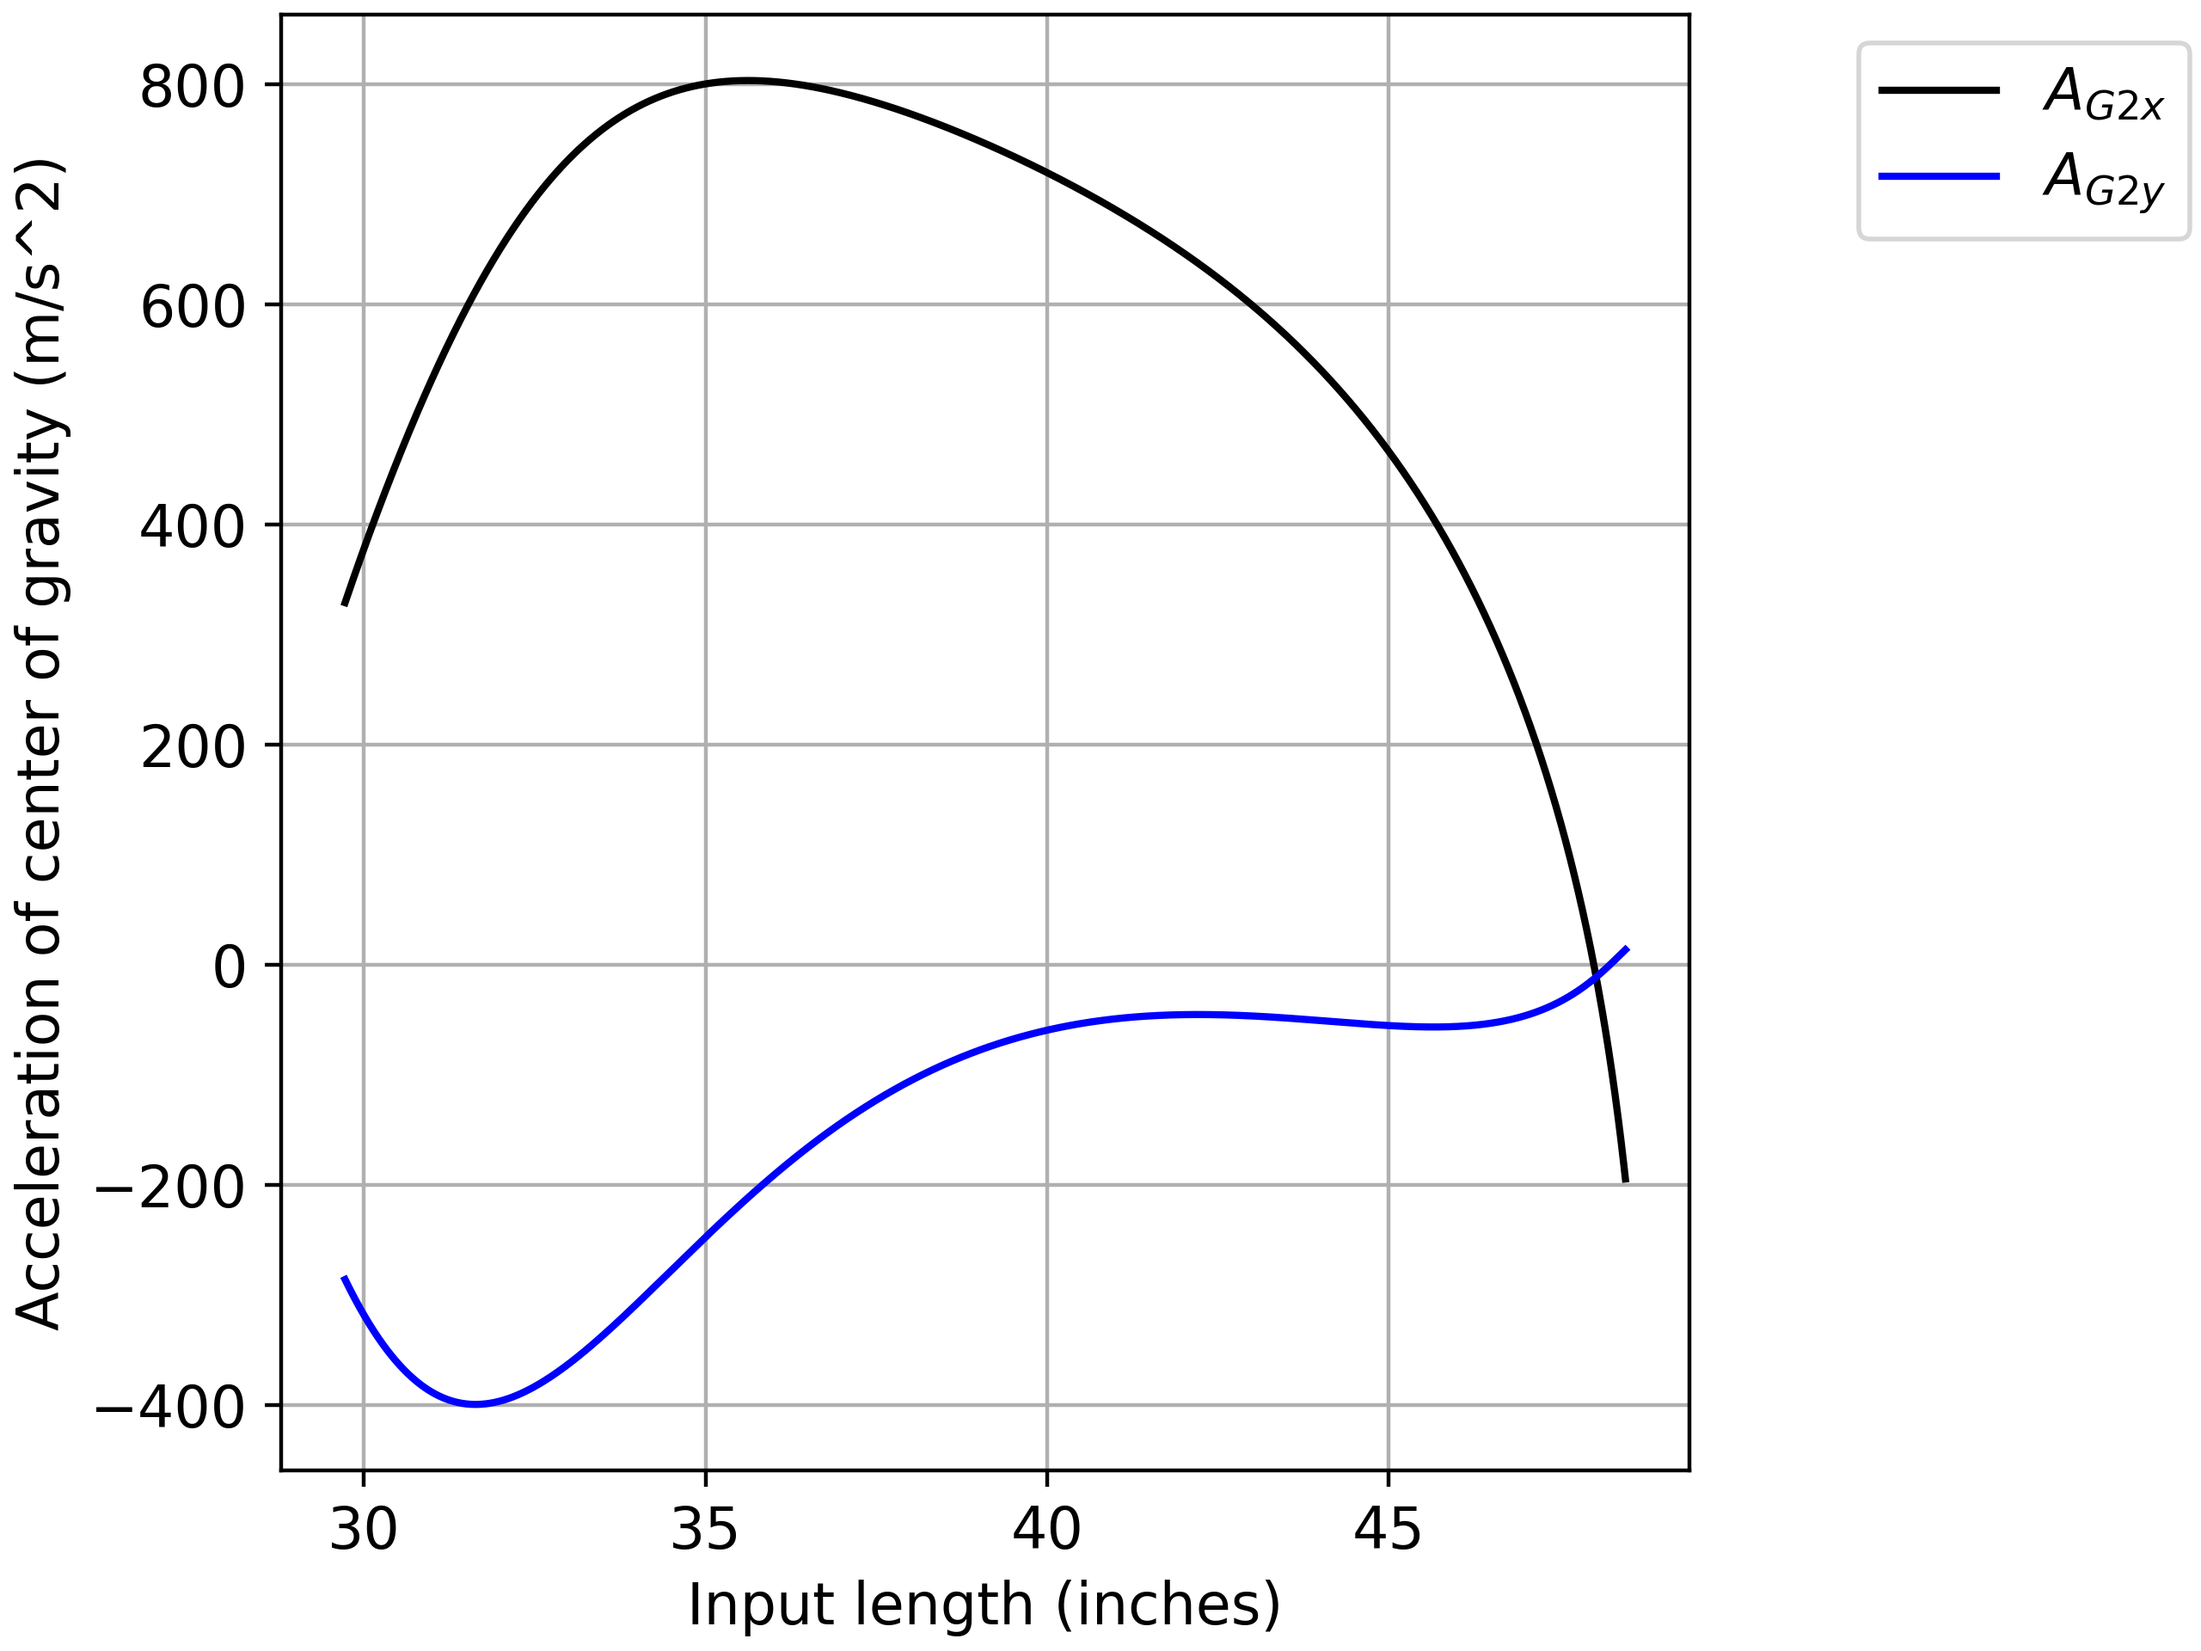
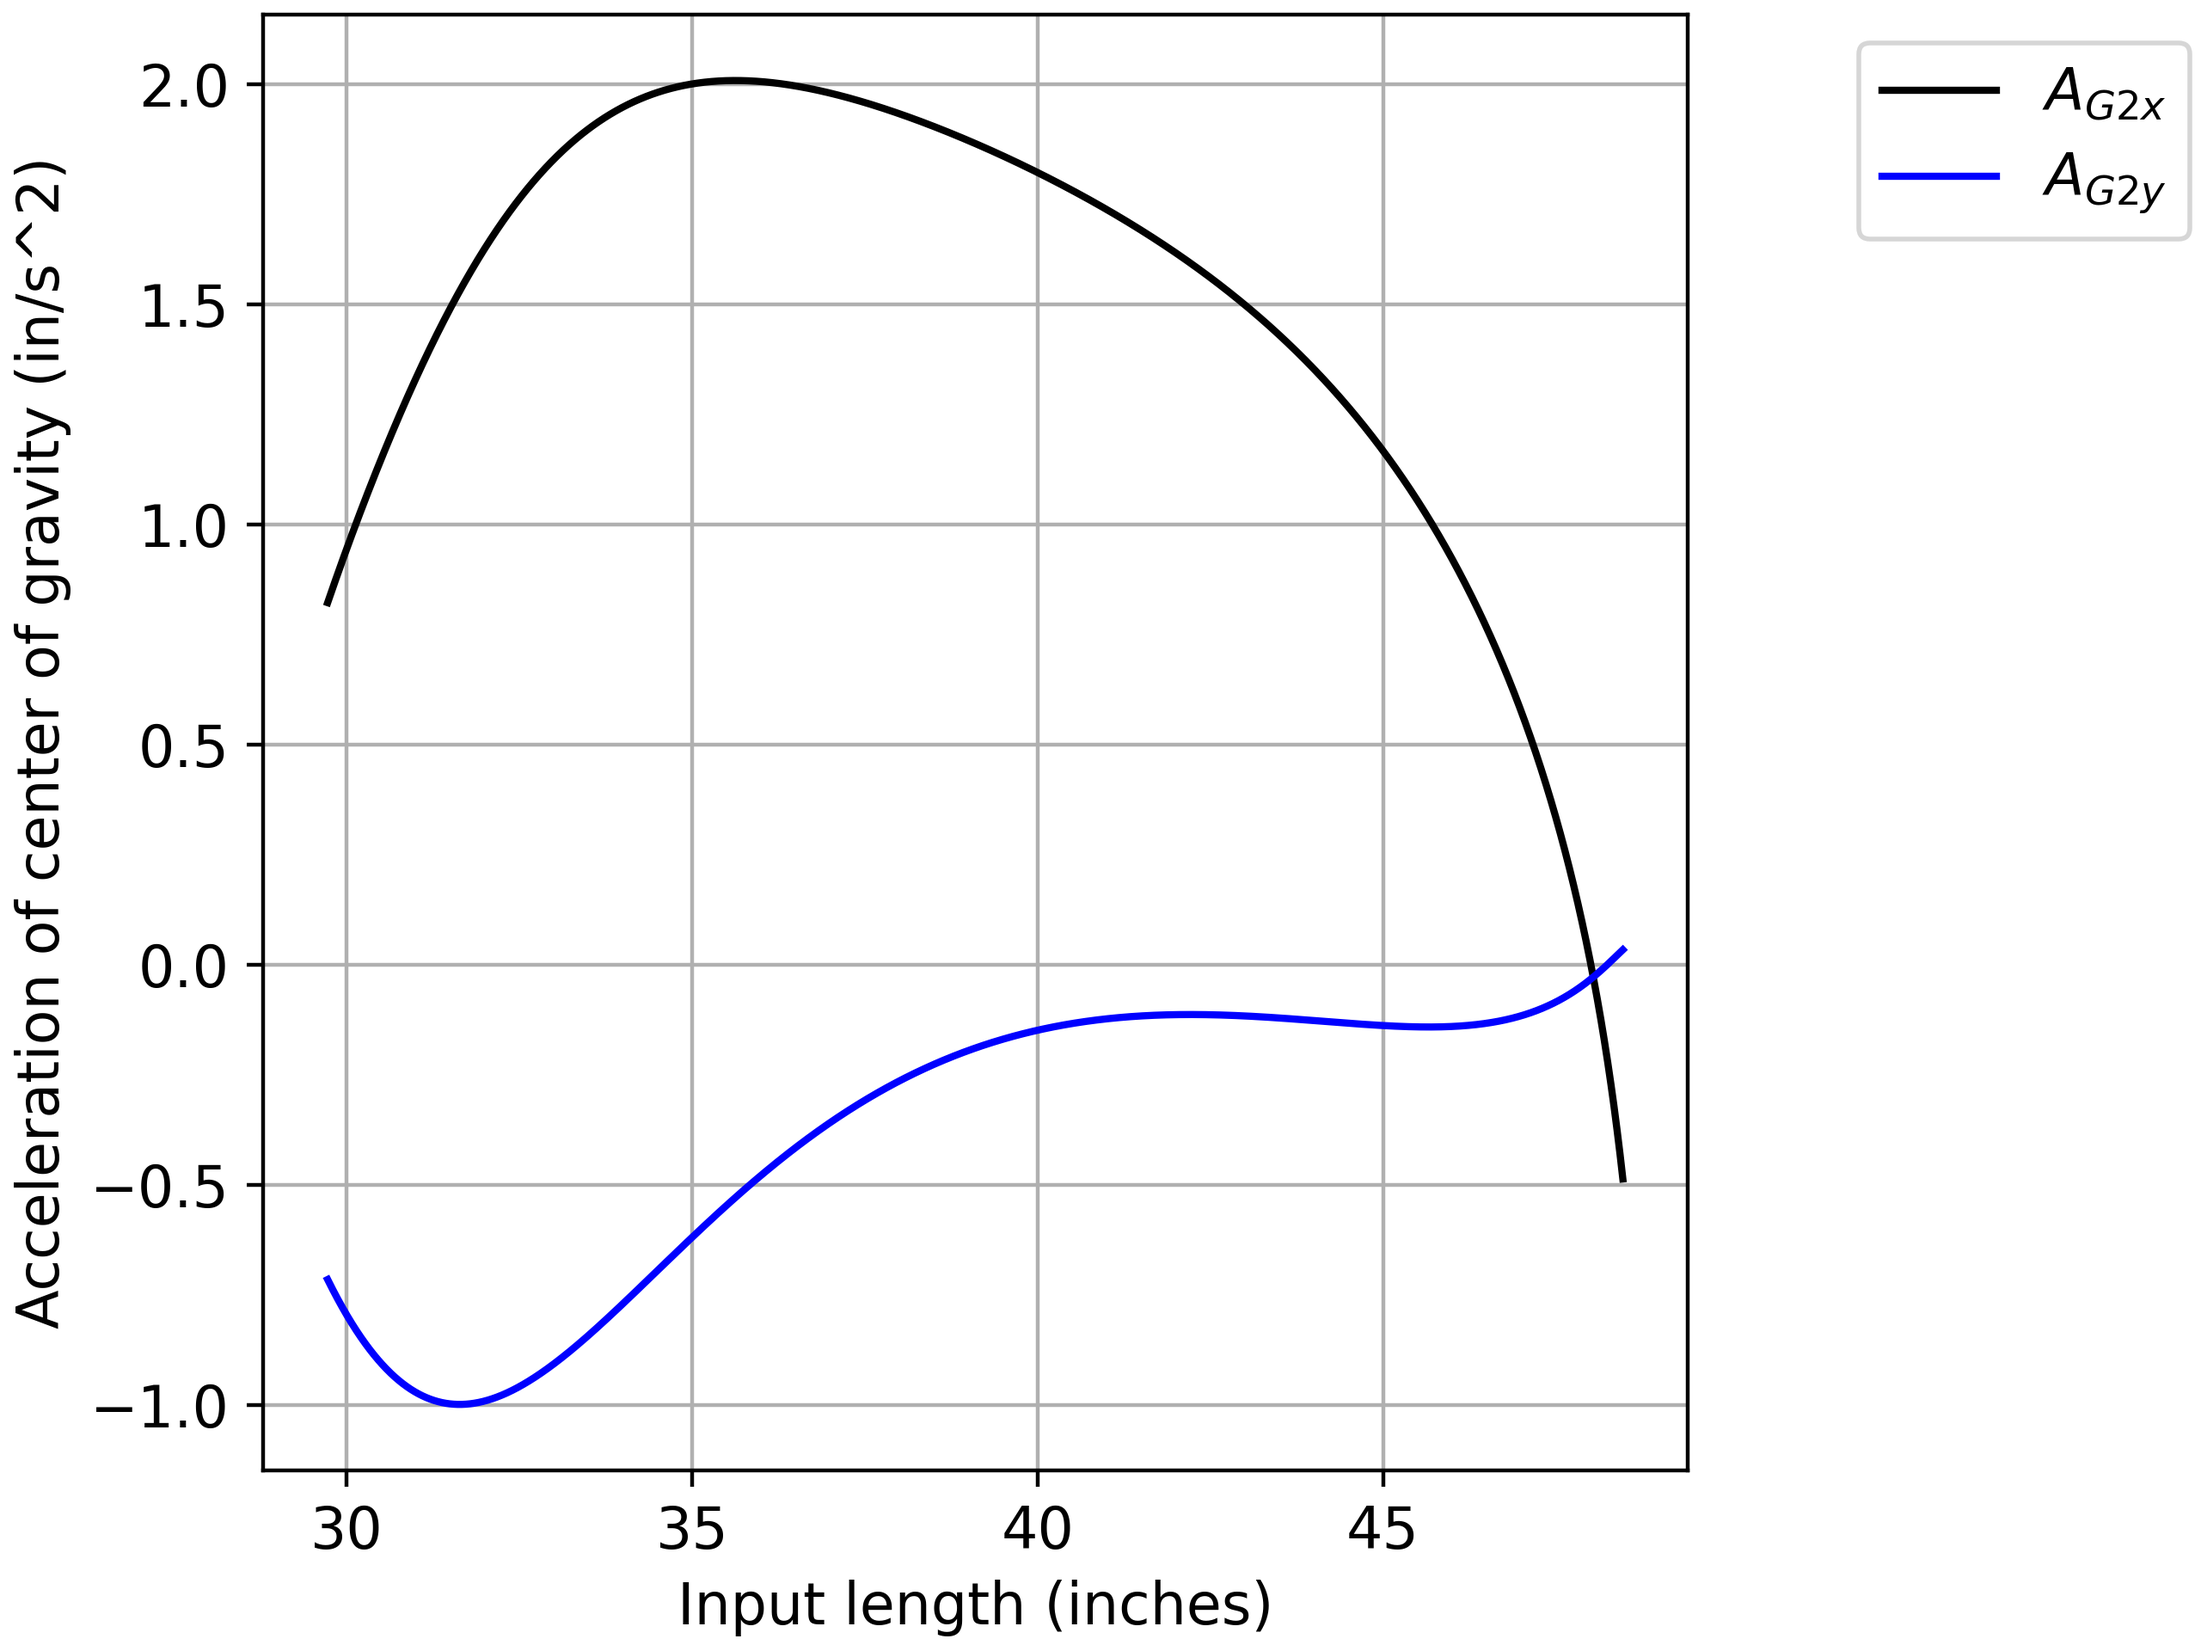
Forces

diff --git a/code/main.py b/code/main.py
@@ -13,7 +13,7 @@ rba = 142.27*act_img_ratio
 rdb = 115.2*act_img_ratio
 rca = 49.46*act_img_ratio
 thetaca = math.radians(293.04)
-rgc = 148.5*act_img_ratio # Can't really tell from picture, but should not affect results as long as counted for accordingly
+rgc = 148.5*act_img_ratio # Can't really tell from picture, but should not affect results as long as accounted for accordingly
 r4 = 148.5*act_img_ratio # Can't tell for this one either
 rde = 85.65*act_img_ratio
 ref = 197.12*act_img_ratio
@@ -21,46 +21,47 @@ rfc = 267.12*act_img_ratio
 thetafc = math.radians(5.44) # angle from positive x-axis to ground link, which is Rea
 betad = math.radians(92.47) # Angle from DB to DA
 rpb = 439.41*act_img_ratio # distance from point b to the bucket coupler point
-betab = math.radians(7.41) # Angle from rpb to rdb
+betab = math.radians(-7.41) # Angle from rpb to rdb
 
 
 
 
 # Centers of mass
 # Lengths measured from second measured point in name
-# Angles measured CCW length vector
+# Angles measured CCW from length vector
 lba = rba/2
 betaba = 0
-mba = 7
+m2 = 100
+ig2 = m2*(3.530*10**(-5))/0.0068241
 
 lgc = rgc/2 # Estimate
 betagc = 0
-mgc = 7
+m6 = 100
+ig6 = m6*(2.476*10**(-4))/0.0048194
 
 l4 = r4/2 # Estimate
 beta4 = 0
-m4 = 7
+m4 = 100
+ig4 = m4*(1.654*10**(-4))/0.0040303
 
 lef = ref/2
 betaef = 0
-mef = 7
+m5 = 100
+ig5 = m5*(0.001476)/0.0079326
 
 ldb = 0.036/0.022*rdb
 betadb = math.radians(-0.2162)
-mdb = 19
+m3 = 200
+ig3 = m3*(0.297341)/0.3535955
 
 
 
 # Inputs
 rdc = 173*act_img_ratio
-rdotdg = 100 # rate of change of length of hydraulic piston
-rddotdg = 0 # rate of change of rate of change of length of hydraulic piston
-
+rdotdg = 5 # rate of change of length of hydraulic piston (in/s)
+rddotdg = 0 # rate of change of rate of change of length of hydraulic piston (in/s^2)
+fp = 1000 # Weight on end of arm (lb)
 rdg = rdc - rgc # Given input length
-
-# Finds most common element in a list
-def most_common(lst: list):
-    return max(set(lst), key=lst.count)
 
 
 """
@@ -121,6 +122,42 @@ def angular_acceleration_eqs(thetaba, thetadb, thetagc, rdotdg, thetadg, thetade
         rgc*(omegagc**2)*np.sin(thetagc) - rddotdg*np.sin(thetadg) - 2*rdotdg*omegadg*np.cos(thetadg) + rdg*(omegadg**2)*np.sin(thetadg) - rde*(omegade**2)*np.sin(thetade) - ref*(omegaef**2)*np.sin(thetaef),
         0,
         0
+    ]
+
+def force_equations(thetaba, thetadb, thetagc, thetadg, thetade, thetaef, ag2x, ag2y, ag3x, ag3y, ag4x, ag4y, ag5x, ag5y, ag6x, ag6y, alpha2, alpha3, alpha4, alpha5, alpha6, rdc):
+    rdg = rdc - rgc
+    return [
+        [1, 0, 0, 0, 0, 0, -1, 0, 0, 0, 0, 0, 0, 0, 0],
+        [0, 1, 0, 0, 0, 0, 0, -1, 0, 0, 0, 0, 0, 0, 0],
+        [0, 0, 0, 0, 0, 0, 1, 0, -1, 0, -1, 0, 0, 0, 0],
+        [0, 0, 0, 0, 0, 0, 0, 1, 0, -1, 0, -1, 0, 0, 0],
+        [0, 0, 0, 0, 0, 0, 0, 0, 1, 0, 0, 0, -math.cos(thetadg + math.pi/2), 0, math.cos(thetadg)],
+        [0, 0, 0, 0, 0, 0, 0, 0, 0, 1, 0, 0, -math.sin(thetadg + math.pi/2), 0, math.sin(thetadg)],
+        [0, 0, 1, 0, 0, 0, 0, 0, 0, 0, 1, 0, 0, 0, 0],
+        [0, 0, 0, 1, 0, 0, 0, 0, 0, 0, 0, 1, 0, 0, 0],
+        [0, 0, 0, 0, 1, 0, 0, 0, 0, 0, 0, 0, math.cos(thetadg + math.pi/2), 0, 0],
+        [0, 0, 0, 0, 0, 1, 0, 0, 0, 0, 0, 0, math.sin(thetadg + math.pi/2), 0, 0],
+        [-lba*math.sin(thetaba + math.pi), lba*math.cos(thetaba + math.pi), 0, 0, 0, 0, (rba - lba)*math.sin(thetaba), -(rba - lba)*math.cos(thetaba), 0, 0, 0, 0, 0, 0, 0],
+        [0, 0, 0, 0, 0, 0, -ldb*math.sin(thetadb + betadb + math.pi), ldb*math.cos(thetadb + betadb + math.pi), (ldb*math.sin(thetadb + betadb + math.pi) + rdb*math.sin(thetadb)), -(ldb*math.cos(thetadb + betadb + math.pi) + rdb*math.cos(thetadb)), (ldb*math.sin(thetadb + betadb + math.pi) + rdb*math.sin(thetadb) - rde*math.sin(thetade)), -(ldb*math.cos(thetadb + betadb + math.pi) + rdb*math.cos(thetadb) - rde*math.cos(thetade)), 0, 0, 0],
+        [0, 0, 0, 0, 0, 0, 0, 0, -l4*math.sin(thetadg), l4*math.cos(thetadg), 0, 0, -(l4-rdg), -1, 0],
+        [0, 0, -lef*math.sin(thetaef + math.pi), lef*math.cos(thetaef + math.pi), 0, 0, 0, 0, 0, 0, -(ref - lef)*math.sin(thetaef), (ref-lef)*math.cos(thetaef), 0, 0, 0],
+        [0, 0, 0, 0, -lgc*math.sin(thetagc + math.pi), lgc*math.cos(thetagc + math.pi), 0, 0, 0, 0, 0, 0, (rgc - lgc), 1, 0]
+    ], [
+        m2*ag2x,
+        m2*ag2y,
+        m3*ag3x,
+        m3*ag3y + fp,
+        m4*ag4x,
+        m4*ag4y,
+        m5*ag5x,
+        m5*ag5y,
+        m6*ag6x,
+        m6*ag6y,
+        ig2*alpha2,
+        ig3*alpha3 + fp*(ldb*math.cos(thetadb + betadb + math.pi) + rdb*math.cos(thetadb + betab)),
+        ig4*alpha4,
+        ig5*alpha5,
+        ig6*alpha6
     ]
 
 # Rename pi for shorter call
@@ -218,7 +255,7 @@ def link_point_pos(angles):
 
     point_d = (point_e[0] + rde*math.cos(angles[4]), point_e[1] + rde*math.sin(angles[4]))
 
-    bucket = (point_b[0] + rpb*math.cos(angles[1]-betab), point_b[1] + rpb*math.sin(angles[1]-betab))
+    bucket = (point_b[0] + rpb*math.cos(angles[1]+betab), point_b[1] + rpb*math.sin(angles[1]+betab))
 
     return point_a, point_b, point_c, point_d, point_e, point_f, point_g, bucket
 
@@ -308,6 +345,23 @@ ag5y = []
 ag6x = []
 ag6y = []
 
+
+f12x = []
+f12y = []
+f15x = []
+f15y = []
+f16x = []
+f16y = []
+f23x = []
+f23y = []
+f34x = []
+f34y = []
+f35x = []
+f35y = []
+f46 = []
+m46 = []
+fi = []
+
 ang_vel_sol_set = []
 ang_acc_sol_set = []
 for i in range(len(sol_set)):
@@ -359,6 +413,24 @@ for i in range(len(sol_set)):
     ag5y.append(lef*math.sin(sol_set[i][5] + betaef + math.pi) * (omegaef[-1]**2) + lef*math.sin(sol_set[i][5] + betaef + (math.pi/2)) * alphaef[-1])
     ag6x.append(lgc*math.cos(sol_set[i][2] + betagc + math.pi) * (omegagc[-1]**2) + lgc*math.cos(sol_set[i][2] + betagc + (math.pi/2)) * alphagc[-1])
     ag6y.append(lgc*math.sin(sol_set[i][2] + betagc + math.pi) * (omegagc[-1]**2) + lgc*math.sin(sol_set[i][2] + betagc + (math.pi/2)) * alphagc[-1])
+
+    force_coeff, force_const = force_equations(sol_set[i][0], sol_set[i][1], sol_set[i][2], sol_set[i][3], sol_set[i][4], sol_set[i][5], ag2x[i], ag2y[i], ag3x[i], ag3y[i], ag4x[i], ag4y[i], ag5x[i], ag5y[i], ag6x[i], ag6y[i], alphaba[i], alphadb[i], alphadg[i], alphaef[i], alphagc[i], used_inputs[i])
+    current_forces = np.linalg.solve(force_coeff, force_const)
+    f12x.append(current_forces[0])
+    f12y.append(current_forces[1])
+    f15x.append(current_forces[2])
+    f15y.append(current_forces[3])
+    f16x.append(current_forces[4])
+    f16y.append(current_forces[5])
+    f23x.append(current_forces[6])
+    f23y.append(current_forces[7])
+    f34x.append(current_forces[8])
+    f34y.append(current_forces[9])
+    f35x.append(current_forces[10])
+    f35y.append(current_forces[11])
+    f46.append(current_forces[12])
+    m46.append(current_forces[13])
+    fi.append(current_forces[14])
 
 def r_degrs(num):
     return num/pi*180 % 360
@@ -422,7 +494,7 @@ ax1.grid()
 ax1.plot(used_inputs, ag2x, color='black', linestyle='solid', label = '$A_{G2x}$')
 ax1.plot(used_inputs, ag2y, color='blue', linestyle='solid', label = '$A_{G2y}$')
 ax1.set_xlabel('Input length (inches)')
-ax1.set_ylabel('Acceleration of center of gravity (m/s^2)')
+ax1.set_ylabel('Acceleration of center of gravity (in/s^2)')
 ax1.legend(bbox_to_anchor=(1.1, 1), loc='upper left')
 plt.savefig(os.path.join(plot_path, "LinkBAAccCG.png"), dpi=400)
 
@@ -430,7 +502,95 @@ plt.rcParams['font.size'] = 12
 fig1, ax1 = plt.subplots(layout='constrained')
 ax1.grid()
 ax1.plot(ag2x, ag2y, color='black', linestyle='solid', label = '$A_{G2}$')
-ax1.set_xlabel('Acceleration of center of gravity (m/s^2)')
-ax1.set_ylabel('Acceleration of center of gravity (m/s^2)')
+ax1.set_aspect('equal', adjustable='box')
+ax1.set_xlabel('Acceleration of center of gravity (in/s^2)')
+ax1.set_ylabel('Acceleration of center of gravity (in/s^2)')
 ax1.legend(bbox_to_anchor=(1.1, 1), loc='upper left')
 plt.savefig(os.path.join(plot_path, "LinkBAAccCGCombined.png"), dpi=400)
+
+plt.rcParams['font.size'] = 12
+fig1, ax1 = plt.subplots(layout='constrained')
+ax1.grid()
+ax1.plot(f12x, f12y, color='black', linestyle='solid', label = '$F_{12}$')
+ax1.set_aspect('equal', adjustable='box')
+ax1.set_xlabel('$F_{12}^{x}$ (lb)')
+ax1.set_ylabel('$F_{12}^{y}$ (lb)')
+ax1.legend(bbox_to_anchor=(1.1, 1), loc='upper left')
+plt.savefig(os.path.join(plot_path, "Force12.png"), dpi=400)
+
+plt.rcParams['font.size'] = 12
+fig1, ax1 = plt.subplots(layout='constrained')
+ax1.grid()
+ax1.plot(f15x, f15y, color='black', linestyle='solid', label = '$F_{15}$')
+ax1.set_aspect('equal', adjustable='box')
+ax1.set_xlabel('$F_{15}^{x}$ (lb)')
+ax1.set_ylabel('$F_{15}^{y}$ (lb)')
+ax1.legend(bbox_to_anchor=(1.1, 1), loc='upper left')
+plt.savefig(os.path.join(plot_path, "Force15.png"), dpi=400)
+
+plt.rcParams['font.size'] = 12
+fig1, ax1 = plt.subplots(layout='constrained')
+ax1.grid()
+ax1.plot(f16x, f16y, color='black', linestyle='solid', label = '$F_{16}$')
+ax1.set_aspect('equal', adjustable='box')
+ax1.set_xlabel('$F_{16}^{x}$ (lb)')
+ax1.set_ylabel('$F_{16}^{y}$ (lb)')
+ax1.legend(bbox_to_anchor=(1.1, 1), loc='upper left')
+plt.savefig(os.path.join(plot_path, "Force16.png"), dpi=400)
+
+plt.rcParams['font.size'] = 12
+fig1, ax1 = plt.subplots(layout='constrained')
+ax1.grid()
+ax1.plot(f23x, f23y, color='black', linestyle='solid', label = '$F_{23}$')
+ax1.set_aspect('equal', adjustable='box')
+ax1.set_xlabel('$F_{23}^{x}$ (lb)')
+ax1.set_ylabel('$F_{23}^{y}$ (lb)')
+ax1.legend(bbox_to_anchor=(1.1, 1), loc='upper left')
+plt.savefig(os.path.join(plot_path, "Force23.png"), dpi=400)
+
+plt.rcParams['font.size'] = 12
+fig1, ax1 = plt.subplots(layout='constrained')
+ax1.grid()
+ax1.plot(f34x, f34y, color='black', linestyle='solid', label = '$F_{34}$')
+ax1.set_aspect('equal', adjustable='box')
+ax1.set_xlabel('$F_{34}^{x}$ (lb)')
+ax1.set_ylabel('$F_{34}^{y}$ (lb)')
+ax1.legend(bbox_to_anchor=(1.1, 1), loc='upper left')
+plt.savefig(os.path.join(plot_path, "Force34.png"), dpi=400)
+
+plt.rcParams['font.size'] = 12
+fig1, ax1 = plt.subplots(layout='constrained')
+ax1.grid()
+ax1.plot(f35x, f35y, color='black', linestyle='solid', label = '$F_{35}$')
+ax1.set_aspect('equal', adjustable='box')
+ax1.set_xlabel('$F_{35}^{x}$ (lb)')
+ax1.set_ylabel('$F_{35}^{y}$ (lb)')
+ax1.legend(bbox_to_anchor=(1.1, 1), loc='upper left')
+plt.savefig(os.path.join(plot_path, "Force35.png"), dpi=400)
+
+plt.rcParams['font.size'] = 12
+fig1, ax1 = plt.subplots(layout='constrained')
+ax1.grid()
+ax1.plot(used_inputs, f46, color='black', linestyle='solid', label = '$F_{46}$ vs input length')
+ax1.set_xlabel('Input length (in)')
+ax1.set_ylabel('$F_{46}$ (lb)')
+ax1.legend(bbox_to_anchor=(1.1, 1), loc='upper left')
+plt.savefig(os.path.join(plot_path, "Force46.png"), dpi=400)
+
+plt.rcParams['font.size'] = 12
+fig1, ax1 = plt.subplots(layout='constrained')
+ax1.grid()
+ax1.plot(used_inputs, m46, color='black', linestyle='solid', label = '$M_{46}$ vs input length$')
+ax1.set_xlabel('Input length (in)')
+ax1.set_ylabel('$M_{46}$ (lb*in)')
+ax1.legend(bbox_to_anchor=(1.1, 1), loc='upper left')
+plt.savefig(os.path.join(plot_path, "Moment46.png"), dpi=400)
+
+plt.rcParams['font.size'] = 12
+fig1, ax1 = plt.subplots(layout='constrained')
+ax1.grid()
+ax1.plot(used_inputs, fi, color='black', linestyle='solid', label = 'Input Force required vs input length')
+ax1.set_xlabel('Input length (in)')
+ax1.set_ylabel('$F_{i}$ (lb)')
+ax1.legend(bbox_to_anchor=(1.1, 1), loc='upper left')
+plt.savefig(os.path.join(plot_path, "Forcei.png"), dpi=400)
